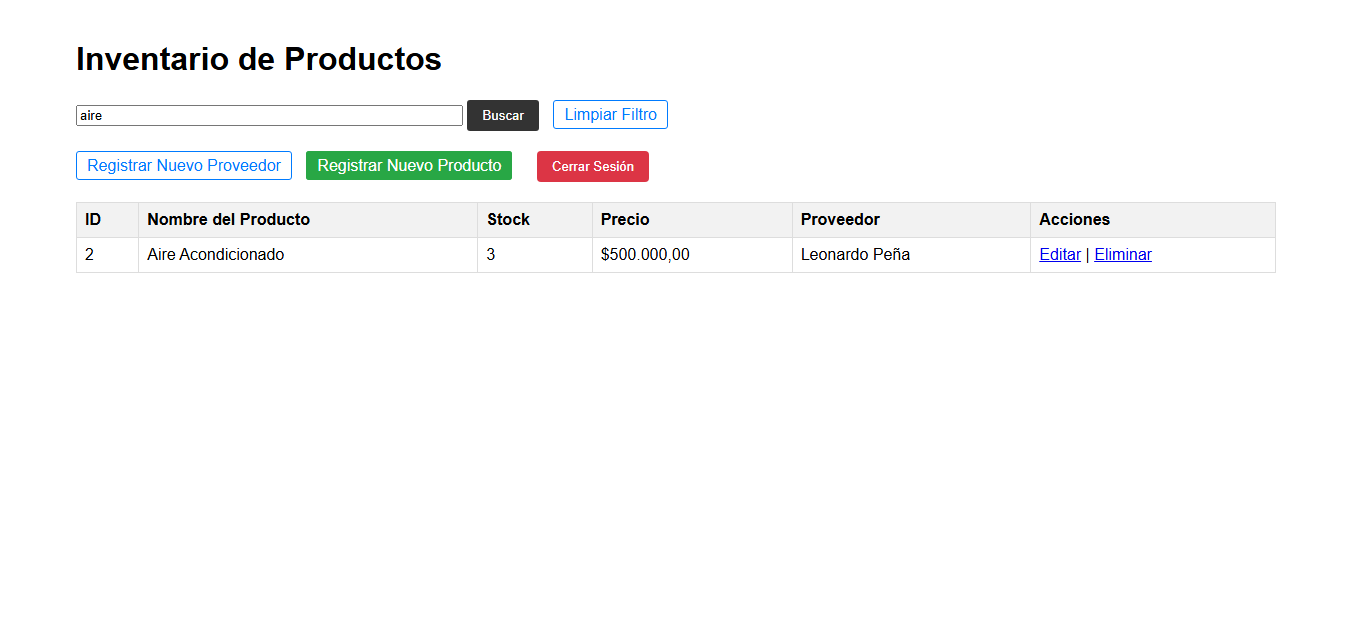
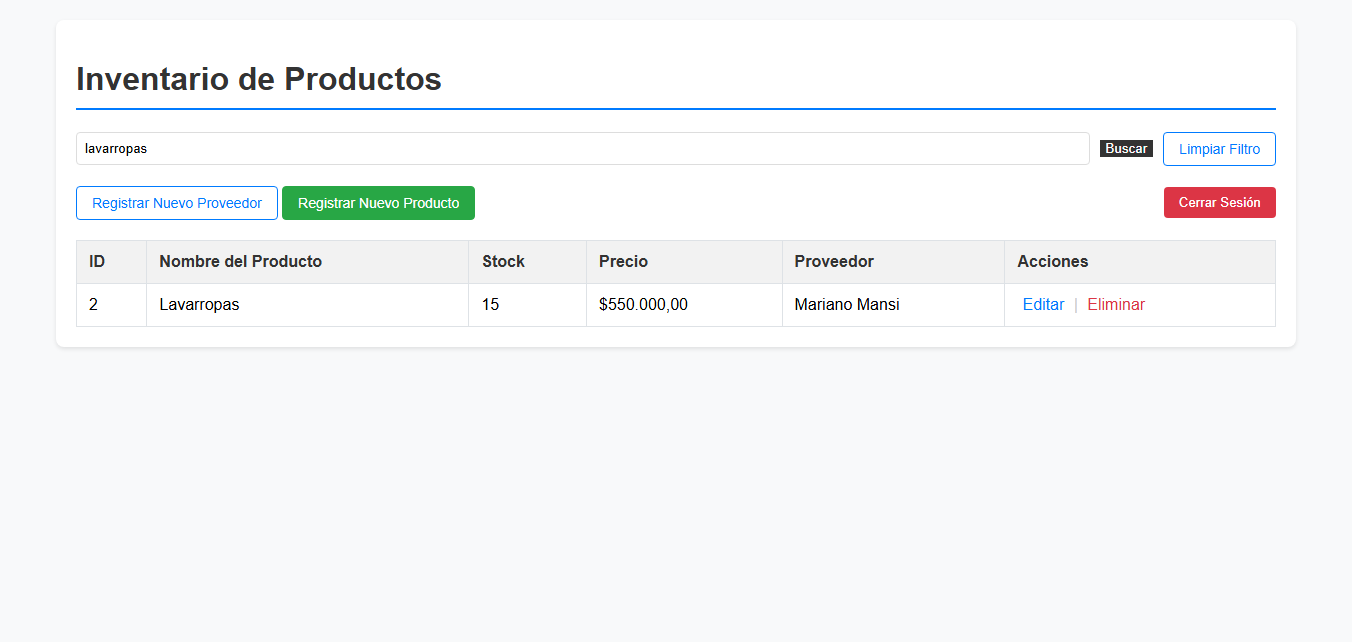
feat:implementar renderizado condicional por roles en productos.html y actualizar capturas en README

diff --git a/src/main/resources/templates/productos.html b/src/main/resources/templates/productos.html
@@ -1,40 +1,53 @@
 <!DOCTYPE html>
-<html xmlns:th="http://www.thymeleaf.org">
+<html xmlns:th="http://www.thymeleaf.org" 
+      xmlns:sec="http://www.thymeleaf.org/extras/spring-security">
 <head>
     <meta charset="UTF-8">
     <title>Gestión de Inventario</title>
     <style>
-        body { font-family: Arial, sans-serif; margin: 20px; }
-        .container { max-width: 1200px; margin: 0 auto; }
-        h2 { border-bottom: 2px solid #333; padding-bottom: 10px; }
+        body { font-family: Arial, sans-serif; margin: 20px; background-color: #f8f9fa; }
+        .container { max-width: 1200px; margin: 0 auto; background: white; padding: 20px; border-radius: 8px; box-shadow: 0 2px 4px rgba(0,0,0,0.1); }
+        h1 { color: #333; border-bottom: 2px solid #007bff; padding-bottom: 10px; }
+        
+        /* Estilos del buscador */
+        .search-container { margin-bottom: 20px; display: flex; gap: 10px; align-items: center; }
+        input[type="text"] { padding: 8px; border: 1px solid #ddd; border-radius: 4px; flex-grow: 1; }
+        
+        /* Estilos de botones */
+        .btn-link { padding: 8px 15px; text-decoration: none; border-radius: 4px; font-size: 14px; display: inline-block; border: 1px solid #007bff; color: #007bff; }
+        .btn-admin { background-color: #28a745; color: white !important; border-color: #28a745; }
+        .btn-search { background-color: #333; color: white; border: none; cursor: pointer; }
+        .btn-logout { background-color: #dc3545; color: white; border: none; padding: 8px 15px; border-radius: 4px; cursor: pointer; }
+        
+        /* Estilos de la tabla */
         table { width: 100%; border-collapse: collapse; margin-top: 20px; }
-        th, td { border: 1px solid #ddd; padding: 8px; text-align: left; }
-        th { background-color: #f2f2f2; }
-        .btn-link { margin-right: 10px; padding: 5px 10px; text-decoration: none; border: 1px solid #007bff; border-radius: 3px; color: #007bff; }
+        th, td { border: 1px solid #dee2e6; padding: 12px; text-align: left; }
+        th { background-color: #f2f2f2; color: #333; }
+        tr:hover { background-color: #f1f1f1; }
+        .actions-cell a { color: #007bff; text-decoration: none; margin: 0 5px; }
+        .actions-cell a:hover { text-decoration: underline; }
     </style>
 </head>
 <body>
 <div class="container">
     <h1>Inventario de Productos</h1>
 
-    <form th:action="@{/}" method="get" style="margin-bottom: 20px;">
+    <form th:action="@{/}" method="get" class="search-container">
         <input type="text" name="keyword" th:value="${keyword}" placeholder="Buscar producto por nombre..." size="50">
-        <button type="submit" style="background-color: #333; color: white; padding: 8px 15px; border: none; border-radius: 3px; cursor: pointer;">Buscar</button>
-        <a th:href="@{/}" class="btn-link" style="margin-left: 10px;">Limpiar Filtro</a>
+        <button type="submit" class="btn-search">Buscar</button>
+        <a th:href="@{/}" class="btn-link">Limpiar Filtro</a>
     </form>
 
-    <div>
-        <a th:href="@{/proveedores/nuevo}" class="btn-link">Registrar Nuevo Proveedor</a>
-        <a th:href="@{/productos/nuevo}" class="btn-link" style="background-color: #28a745; color: white; border-color: #28a745;">Registrar Nuevo Producto</a>
-        <form th:action="@{/logout}" method="post" style="display: inline-block; margin-left: 10px;">
-            <button type="submit" 
-                style="background-color: #dc3545; color: white; padding: 8px 15px; border: none; border-radius: 4px; cursor: pointer;">
-                Cerrar Sesión
-            </button>
+    <div style="display: flex; justify-content: space-between; align-items: center; margin-bottom: 20px;">
+        <div sec:authorize="hasRole('ADMIN')">
+            <a th:href="@{/proveedores/nuevo}" class="btn-link">Registrar Nuevo Proveedor</a>
+            <a th:href="@{/productos/nuevo}" class="btn-link btn-admin">Registrar Nuevo Producto</a>
+        </div>
+
+        <form th:action="@{/logout}" method="post">
+            <button type="submit" class="btn-logout">Cerrar Sesión</button>
         </form>
     </div>
-
-    
 
     <table>
         <thead>
@@ -44,25 +57,29 @@
                 <th>Stock</th>
                 <th>Precio</th>
                 <th>Proveedor</th>
-                <th>Acciones</th>
+                <th sec:authorize="hasRole('ADMIN')">Acciones</th>
             </tr>
         </thead>
         <tbody>
             <tr th:each="producto : ${productos}">
                 <td th:text="${producto.id}">1</td>
-                <td th:text="${producto.nombre}">Cámara de Seguridad A100</td>
+                <td th:text="${producto.nombre}">Cámara de Seguridad</td>
                 <td th:text="${#numbers.formatInteger(producto.stock, 0)}">50</td>
                 <td th:text="'$' + ${#numbers.formatDecimal(producto.precio, 0, 'POINT', 2, 'COMMA')}">99.99</td>
                 <td th:text="${producto.proveedor != null ? producto.proveedor.nombre : 'N/A'}">HIKVISION</td>
-                <td>
+                
+                <td sec:authorize="hasRole('ADMIN')" class="actions-cell">
                     <a th:href="@{'/productos/editar/' + ${producto.id}}">Editar</a>
-                    |
+                    <span style="color: #ccc;">|</span>
                     <a th:href="@{'/productos/eliminar/' + ${producto.id}}" 
+                       style="color: #dc3545;"
                        onclick="return confirm('¿Estás seguro de eliminar este producto?');">Eliminar</a>
                 </td>
             </tr>
             <tr th:if="${productos.isEmpty()}">
-                <td colspan="6" style="text-align: center;">No hay productos registrados.</td>
+                <td th:colspan="${#authorization.expression('hasRole(''ADMIN'')') ? 6 : 5}" style="text-align: center; padding: 20px; color: #666;">
+                    No hay productos registrados que coincidan con la búsqueda.
+                </td>
             </tr>
         </tbody>
     </table>

diff --git a/README.md b/README.md
@@ -1,92 +1,69 @@
-# Sistema de Gestión de Inventario y Stock (CRUD con Spring Security)
+# Sistema de Gestión de Inventario y Stock (Java 21 & Spring Boot 3)
 
-Este proyecto es una aplicación web full-stack diseñada para la gestión de productos, inventario y proveedores. Demuestra la implementación de un CRUD (Create, Read, Update, Delete) robusto, autenticación basada en roles y filtros de búsqueda avanzados.
+Este proyecto es una aplicación web full-stack diseñada para la gestión integral de productos y proveedores. Implementa un sistema CRUD robusto, seguridad perimetral basada en roles y una interfaz dinámica que adapta sus funciones según el nivel de acceso del usuario.
 
 ## Tecnologías / Stack
 
-* **Lenguaje:** Java 21
+* **Lenguaje:** Java 21 (LTS)
 * **Framework:** Spring Boot 4.0.0
-* **Web Framework:** Spring MVC
-* **Seguridad:** **Spring Security** (Autenticación en memoria y Autorización por roles).
+* **Seguridad:** Spring Security (Autorización por roles y protección de rutas)
 * **Base de Datos:** PostgreSQL
 * **Persistencia:** Spring Data JPA / Hibernate
-* **Frontend:** Thymeleaf (Server-Side Rendering)
+* **Frontend:** Thymeleaf + Spring Security Extras (Renderizado condicional)
 * **Build Tool:** Maven
 
-## Configuración Inicial del Proyecto
+## Seguridad y Control de Acceso
 
-El proyecto fue inicializado con Spring Initializr. Esta captura documenta las dependencias clave que hacen posible el desarrollo Full-Stack con autenticación y vista del lado del servidor:
-
-| Dependencia | Propósito |
-| :--- | :--- |
-| **Spring Web** | Framework MVC y servidor embebido (Tomcat). |
-| **Thymeleaf** | **Motor de plantillas para renderizado del Frontend (Vistas y Login)**. |
-| **Spring Data JPA** | Persistencia y conexión con la base de datos. |
-| **PostgreSQL Driver** | Conexión específica con la base de datos de producción. |
-| **Spring Security** | *No se muestra en la captura, pero se implementó para la autenticación por roles.* |
-
-![Configuración inicial de dependencias en Spring Initializr](images/spring-initializr.png)
-
-## Características Implementadas
-
-* **Gestión de Inventario (CRUD):** Funcionalidades completas para administrar productos y proveedores.
-* **Autenticación y Autorización:**
-    * Log-in personalizado utilizando Spring Security.
-    * Control de acceso basado en roles (`ADMIN` vs. `USER`).
-    * `ADMIN` tiene acceso completo (Crear, Editar, Eliminar).
-    * `USER` tiene acceso de solo lectura (Ver listado y Buscar).
-* **Modelo de Datos Relacional:** Implementación de la relación One-to-Many entre Productos y Proveedores.
-* **Filtros de Búsqueda:** Búsqueda dinámica y en tiempo real de productos por nombre (ignorando mayúsculas y minúsculas).
-* **Formato Profesional:** Precios y Stock formateados correctamente en la interfaz de usuario.
-
-## Instrucciones de Ejecución
-
-1.  **Base de Datos:** Asegúrese de tener PostgreSQL instalado y una base de datos creada (ej: `gestor_inventario_db`).
-2.  **Configuración:** Actualice las credenciales de conexión en el archivo `src/main/resources/application.properties` (URL, username y password).
-3.  **Ejecutar:** Use su IDE (VS Code) o la terminal para ejecutar la aplicación:
-    ```bash
-    mvn spring-boot:run
-    ```
-4.  **Acceso:** Navegue a `http://localhost:8080/`
+La aplicación implementa una segregación de funciones estricta. La interfaz de usuario se adapta dinámicamente: los botones de "Editar", "Eliminar" y "Registrar" solo se renderizan para usuarios con privilegios elevados.
 
 ### Cuentas de Prueba
 
-| Rol | Usuario | Contraseña | Permisos |
-| :--- | :--- | :--- | :--- |
-| **Administrador** | `admin` | `password` | CRUD completo |
-| **Usuario** | `user` | `password` | Solo lectura |
+| Rol | Usuario | Contraseña | Permisos | Vista de Interfaz |
+| :--- | :--- | :--- | :--- | :--- |
+| **Administrador** | `admin` | `password` | CRUD completo | Acceso total a botones y formularios |
+| **Usuario** | `user` | `password` | Solo lectura | Solo tabla de consulta y buscador |
 
+---
 
-## VISTAS DEL PROYECTO
+## Vistas del Proyecto
 
-Aquí puedes ver el flujo de la aplicación.
+### 1. Gestión de Acceso
+Autenticación personalizada. El sistema redirige automáticamente según el rol asignado en la lógica de `SecurityConfig`.
 
-### 1. Pantalla de Acceso (Spring Security)
+![Login](images/login.png)
 
-La aplicación implementa una autenticación robusta mediante Spring Security con una vista personalizada. Se demuestra la segregación de responsabilidades mediante roles: `admin` (CRUD total) y `user` (Solo lectura).
+### 2. Comparativa de Interfaz por Rol (Thymeleaf + Security)
+Esta sección demuestra la capacidad del sistema para ocultar elementos sensibles del DOM basándose en la autenticación del servidor.
 
-![Captura de la página de inicio de sesión con roles de prueba](images/login.png)
+| Vista de Administrador (Control Total) | Vista de Usuario (Consulta) |
+| :--- | :--- |
+| ![Admin View](images/admin_inventario_producto.png) | ![User View](images/user_inventario_producto.png) |
 
-### 2. Dashboard de Inventario y Filtros
+### 3. Filtros y Búsqueda Avanzada
+Implementación de búsqueda insensible a mayúsculas/minúsculas para una localización rápida de stock.
 
-La vista principal lista todos los productos con el precio formateado correctamente. Incluye una barra de búsqueda que filtra productos por nombre en tiempo real, mejorando la usabilidad.
+![Filtrado de productos](images/filtrar.png)
 
-![Captura de la tabla principal de inventario con precios y opciones de acción](images/inventario_producto.png)
+### 4. Formularios de Registro
+Diseño orientado a la integridad de datos, permitiendo la vinculación de productos con proveedores existentes.
 
-### 3. Búsqueda y Lectura (Usuario Básico)
+| Registro de Proveedor | Registro de Producto |
+| :--- | :--- |
+| ![Nuevo Proveedor](images/registrar_proveedor.png) | ![Nuevo Producto](images/registrar_producto.png) |
 
-Se demuestra el filtro de búsqueda por nombre (`keyword`) funcionando, lo que permite a los usuarios (incluso a los de rol `USER`) encontrar productos específicos fácilmente.
+---
 
-![Captura de la tabla filtrada por el término 'aire'](images/filtrar.png)
+## Configuración e Instalación
 
-### 4. Formulario de Registro de Proveedor
-
-Formulario simple para crear la entidad `Proveedor`, fundamental para la relación One-to-Many.
-
-![Captura del formulario para registrar nuevos proveedores](images/registrar_proveedor.png)
-
-### 5. Formulario de Registro de Producto
-
-El formulario de `Producto` permite registrar Stock, Precio y, crucialmente, seleccionar el `Proveedor` asociado de un listado dinámico.
-
-![Captura del formulario para registrar un nuevo producto con la selección de proveedor](images/registrar_producto.png)
+1.  **Base de Datos:** Cree una base de datos en PostgreSQL llamada `gestor_inventario_db`.
+2.  **Configuración:** Los parámetros de conexión se encuentran en `application.properties`:
+    ```properties
+    spring.datasource.url=jdbc:postgresql://localhost:5432/TU_BASE_DE_DATOS
+    spring.datasource.username=TU_USUARIO
+    spring.datasource.password=TU_CONTRASEÑA
+    ```
+3.  **Ejecución:**
+    ```bash
+    mvn spring-boot:run
+    ```
+4.  **Acceso:** `http://localhost:8080/`
